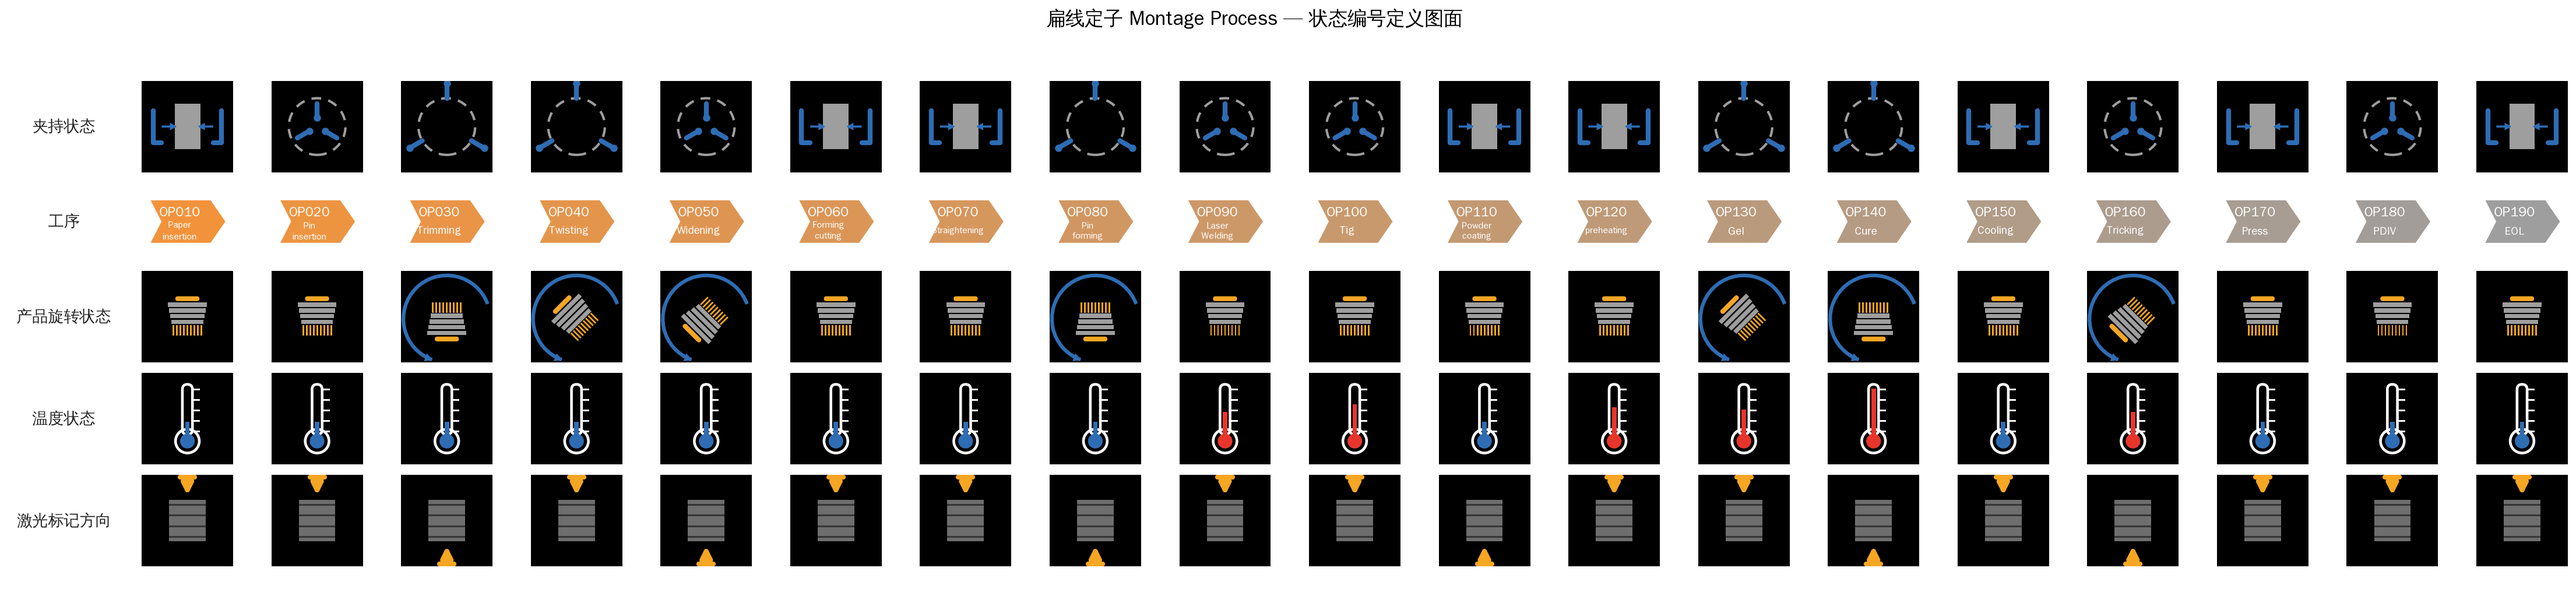
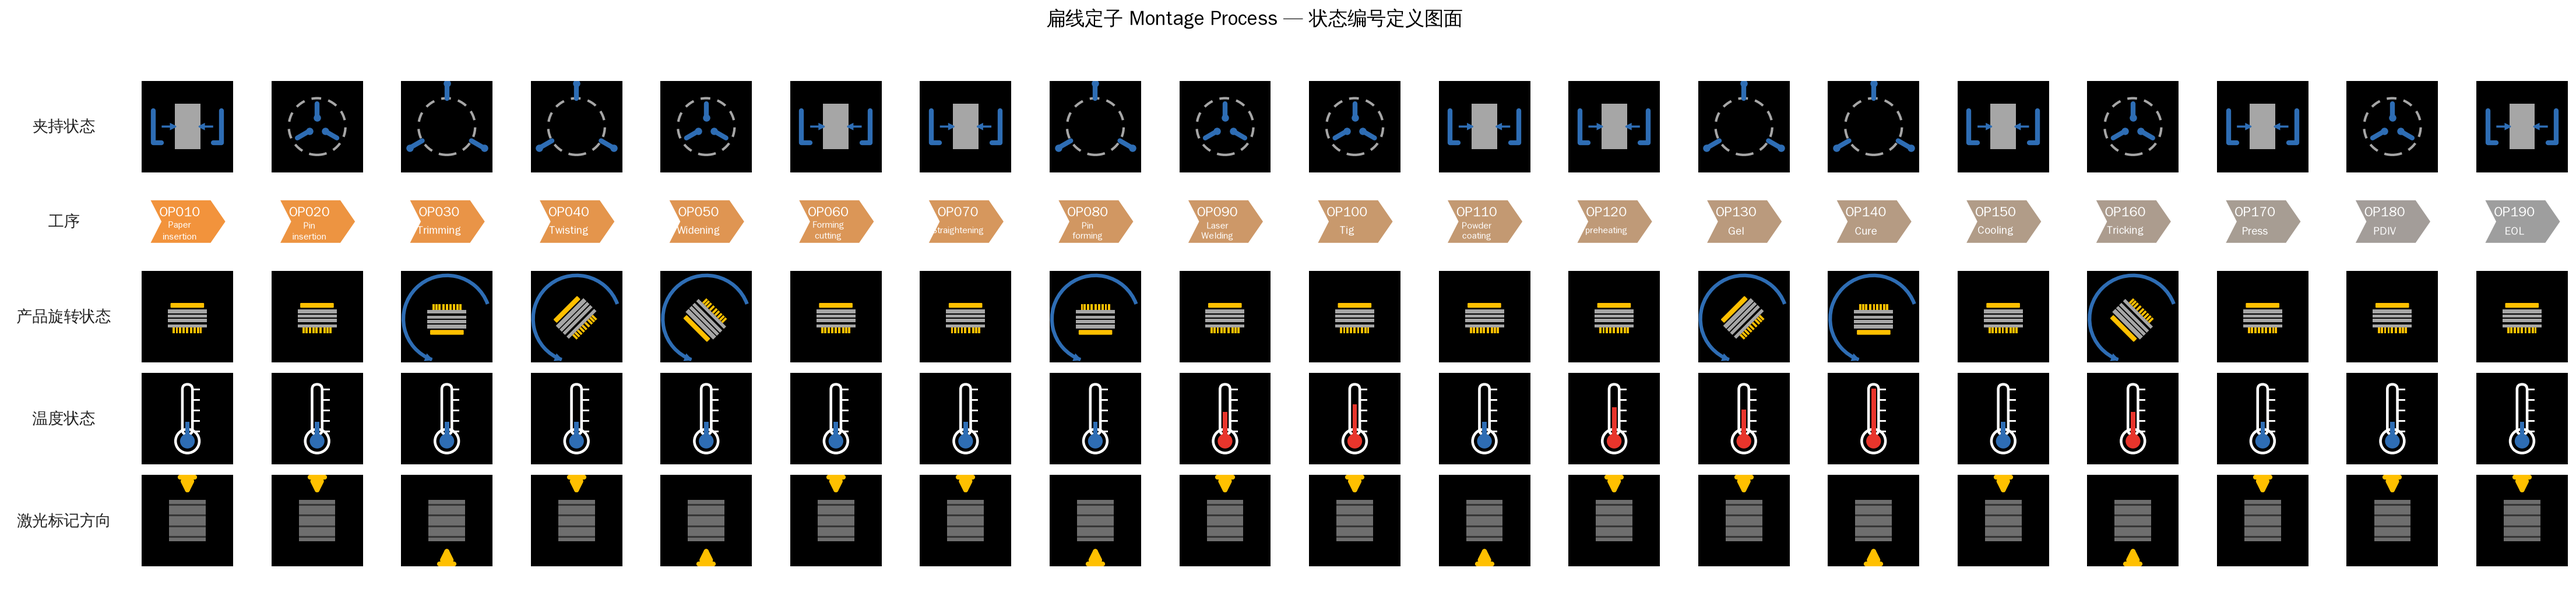
Use the real stator.svg geometry for the stator glyph
Replace the hand-approximated stator icon (both the matplotlib PNG
renderer and the HTML/SVG templates) with a 1:1 port of the actual
stator.svg provided by the user: gold cap, 4 grey laminated bars,
9 gold pin teeth, on the real 178x145 proportions and colors
(#FFC000 / #A6A6A6).

diff --git a/stator_montage_tool/web/index.html b/stator_montage_tool/web/index.html
@@ -5,8 +5,8 @@
 <title>扁线定子 Montage Process 状态编号定义图面</title>
 <style>
   :root {
-    --gold: #F5A623;
-    --grey: #9E9E9E;
+    --gold: #FFC000;
+    --grey: #A6A6A6;
     --grey-dark: #6E6E6E;
     --blue: #2E6DB4;
     --red: #E8352C;
@@ -42,28 +42,29 @@
     </defs>
   </svg>
 
+  <!-- 精确复刻自用户提供的 stator.svg（原始画布 178x145，见 web/README.md） -->
   <template id="tpl-stator">
-    <svg viewBox="0 0 100 100"><g class="stator">
-      <rect x="19" y="8" width="62" height="10" rx="5" fill="var(--gold)"/>
-      <rect x="16" y="20" width="68" height="8" fill="var(--grey)"/>
-      <rect x="18" y="30" width="64" height="8" fill="var(--grey)"/>
-      <rect x="20" y="40" width="60" height="8" fill="var(--grey)"/>
-      <rect x="22" y="50" width="56" height="8" fill="var(--grey)"/>
-      <rect x="14" y="60" width="4.5" height="28" fill="var(--gold)"/>
-      <rect x="23" y="60" width="4.5" height="28" fill="var(--gold)"/>
-      <rect x="32" y="60" width="4.5" height="28" fill="var(--gold)"/>
-      <rect x="41" y="60" width="4.5" height="28" fill="var(--gold)"/>
-      <rect x="50" y="60" width="4.5" height="28" fill="var(--gold)"/>
-      <rect x="59" y="60" width="4.5" height="28" fill="var(--gold)"/>
-      <rect x="68" y="60" width="4.5" height="28" fill="var(--gold)"/>
-      <rect x="77" y="60" width="4.5" height="28" fill="var(--gold)"/>
-      <rect x="86" y="60" width="4.5" height="28" fill="var(--gold)"/>
+    <svg viewBox="0 0 178 145"><g class="stator">
+      <rect x="12" y="0" width="153" height="22" rx="3.7" ry="3.7" fill="var(--gold)"/>
+      <rect x="0" y="28" width="178" height="20" fill="var(--grey)"/>
+      <rect x="0" y="52" width="178" height="15" fill="var(--grey)"/>
+      <rect x="0" y="72" width="178" height="15" fill="var(--grey)"/>
+      <rect x="0" y="97" width="178" height="15" fill="var(--grey)"/>
+      <line x1="27" y1="112" x2="27" y2="139.332" stroke="var(--gold)" stroke-width="10.3125"/>
+      <line x1="41" y1="112" x2="41" y2="139.332" stroke="var(--gold)" stroke-width="10.3125"/>
+      <line x1="56" y1="112" x2="56" y2="139.332" stroke="var(--gold)" stroke-width="10.3125"/>
+      <line x1="72" y1="112" x2="72" y2="139.332" stroke="var(--gold)" stroke-width="10.3125"/>
+      <line x1="87" y1="112" x2="87" y2="139.332" stroke="var(--gold)" stroke-width="10.3125"/>
+      <line x1="105" y1="112" x2="105" y2="139.332" stroke="var(--gold)" stroke-width="10.3125"/>
+      <line x1="123" y1="112" x2="123" y2="139.332" stroke="var(--gold)" stroke-width="10.3125"/>
+      <line x1="137" y1="112" x2="137" y2="139.332" stroke="var(--gold)" stroke-width="10.3125"/>
+      <line x1="150" y1="112" x2="150" y2="139.332" stroke="var(--gold)" stroke-width="10.3125"/>
     </g></svg>
   </template>
 
   <template id="tpl-rotate-arrow">
-    <svg viewBox="0 0 100 100"><g class="rotate-arrow">
-      <path d="M 90.7 26.5 A 47 47 0 1 1 26.5 9.3" fill="none" stroke="var(--blue)" stroke-width="6" marker-end="url(#arrow-blue)"/>
+    <svg viewBox="0 0 178 145"><g class="rotate-arrow">
+      <path d="M 153.95 35 A 75 75 0 1 1 51.5 7.55" fill="none" stroke="var(--blue)" stroke-width="6" marker-end="url(#arrow-blue)"/>
     </g></svg>
   </template>
 
@@ -143,7 +144,7 @@
 <!-- ============ /静态 SVG 图标资源 ============ -->
 
 <script>
[2 lines of base64/hex data omitted]
 </script>
 </body>
 </html>

diff --git a/stator_montage_tool/web/shell.html b/stator_montage_tool/web/shell.html
@@ -5,8 +5,8 @@
 <title>扁线定子 Montage Process 状态编号定义图面</title>
 <style>
   :root {
-    --gold: #F5A623;
-    --grey: #9E9E9E;
+    --gold: #FFC000;
+    --grey: #A6A6A6;
     --grey-dark: #6E6E6E;
     --blue: #2E6DB4;
     --red: #E8352C;
@@ -42,28 +42,29 @@
     </defs>
   </svg>
 
+  <!-- 精确复刻自用户提供的 stator.svg（原始画布 178x145，见 web/README.md） -->
   <template id="tpl-stator">
-    <svg viewBox="0 0 100 100"><g class="stator">
-      <rect x="19" y="8" width="62" height="10" rx="5" fill="var(--gold)"/>
-      <rect x="16" y="20" width="68" height="8" fill="var(--grey)"/>
-      <rect x="18" y="30" width="64" height="8" fill="var(--grey)"/>
-      <rect x="20" y="40" width="60" height="8" fill="var(--grey)"/>
-      <rect x="22" y="50" width="56" height="8" fill="var(--grey)"/>
-      <rect x="14" y="60" width="4.5" height="28" fill="var(--gold)"/>
-      <rect x="23" y="60" width="4.5" height="28" fill="var(--gold)"/>
-      <rect x="32" y="60" width="4.5" height="28" fill="var(--gold)"/>
-      <rect x="41" y="60" width="4.5" height="28" fill="var(--gold)"/>
-      <rect x="50" y="60" width="4.5" height="28" fill="var(--gold)"/>
-      <rect x="59" y="60" width="4.5" height="28" fill="var(--gold)"/>
-      <rect x="68" y="60" width="4.5" height="28" fill="var(--gold)"/>
-      <rect x="77" y="60" width="4.5" height="28" fill="var(--gold)"/>
-      <rect x="86" y="60" width="4.5" height="28" fill="var(--gold)"/>
+    <svg viewBox="0 0 178 145"><g class="stator">
+      <rect x="12" y="0" width="153" height="22" rx="3.7" ry="3.7" fill="var(--gold)"/>
+      <rect x="0" y="28" width="178" height="20" fill="var(--grey)"/>
+      <rect x="0" y="52" width="178" height="15" fill="var(--grey)"/>
+      <rect x="0" y="72" width="178" height="15" fill="var(--grey)"/>
+      <rect x="0" y="97" width="178" height="15" fill="var(--grey)"/>
+      <line x1="27" y1="112" x2="27" y2="139.332" stroke="var(--gold)" stroke-width="10.3125"/>
+      <line x1="41" y1="112" x2="41" y2="139.332" stroke="var(--gold)" stroke-width="10.3125"/>
+      <line x1="56" y1="112" x2="56" y2="139.332" stroke="var(--gold)" stroke-width="10.3125"/>
+      <line x1="72" y1="112" x2="72" y2="139.332" stroke="var(--gold)" stroke-width="10.3125"/>
+      <line x1="87" y1="112" x2="87" y2="139.332" stroke="var(--gold)" stroke-width="10.3125"/>
+      <line x1="105" y1="112" x2="105" y2="139.332" stroke="var(--gold)" stroke-width="10.3125"/>
+      <line x1="123" y1="112" x2="123" y2="139.332" stroke="var(--gold)" stroke-width="10.3125"/>
+      <line x1="137" y1="112" x2="137" y2="139.332" stroke="var(--gold)" stroke-width="10.3125"/>
+      <line x1="150" y1="112" x2="150" y2="139.332" stroke="var(--gold)" stroke-width="10.3125"/>
     </g></svg>
   </template>
 
   <template id="tpl-rotate-arrow">
-    <svg viewBox="0 0 100 100"><g class="rotate-arrow">
-      <path d="M 90.7 26.5 A 47 47 0 1 1 26.5 9.3" fill="none" stroke="var(--blue)" stroke-width="6" marker-end="url(#arrow-blue)"/>
+    <svg viewBox="0 0 178 145"><g class="rotate-arrow">
+      <path d="M 153.95 35 A 75 75 0 1 1 51.5 7.55" fill="none" stroke="var(--blue)" stroke-width="6" marker-end="url(#arrow-blue)"/>
     </g></svg>
   </template>
 

diff --git a/stator_montage_tool/web/app.src.js b/stator_montage_tool/web/app.src.js
@@ -87,7 +87,7 @@
     var cell = newCell();
     var angle = ROTATION_ANGLES[String(code)];
     var svg = cloneSvg("tpl-stator");
-    svg.querySelector(".stator").setAttribute("transform", "rotate(" + angle + " 50 50)");
+    svg.querySelector(".stator").setAttribute("transform", "rotate(" + angle + " 89 72.5)");
     cell.appendChild(svg);
     if (angle !== 0) {
       cell.appendChild(cloneSvg("tpl-rotate-arrow"));

diff --git a/stator_montage_tool/icons.py b/stator_montage_tool/icons.py
@@ -8,9 +8,9 @@ import matplotlib.path as mpath
 import matplotlib.transforms as mtransforms
 from matplotlib.patches import FancyArrowPatch, Circle, Rectangle, FancyBboxPatch
 
-GOLD = "#F5A623"
+GOLD = "#FFC000"
 GOLD_DARK = "#C97F0E"
-GREY = "#9E9E9E"
+GREY = "#A6A6A6"
 GREY_DARK = "#6E6E6E"
 BLUE = "#2E6DB4"
 RED = "#E8352C"
@@ -30,48 +30,60 @@ def _cell(ax, bg=BLACK):
 
 
 # ---------------------------------------------------------------------------
-# Stator glyph: gold cap + grey laminated stack + gold pin teeth
+# Stator glyph: gold cap + grey laminated stack + gold pin teeth.
+# Geometry ported 1:1 from the reference stator.svg (original canvas 178x145,
+# cap x=12..165 y=0..22, 4 grey bars, 9 gold pin teeth y=112..139.332).
 # ---------------------------------------------------------------------------
 
-def _stator_glyph_patches(cx=0.0, cy=0.0, w=0.9, h=1.2):
+_REAL_CX, _REAL_CY = 89.0, 72.5
+_REAL_CAP = dict(x=12, y=0, w=153, h=22, rx=3.7)
+_REAL_BARS = [
+    dict(x=0, y=28, w=178, h=20),
+    dict(x=0, y=52, w=178, h=15),
+    dict(x=0, y=72, w=178, h=15),
+    dict(x=0, y=97, w=178, h=15),
+]
+_REAL_TEETH_X = [27, 41, 56, 72, 87, 105, 123, 137, 150]
+_REAL_TEETH_Y0, _REAL_TEETH_Y1, _REAL_TEETH_W = 112, 139.332, 10.3125
+
+
+def _rect_world(real_x, real_y, real_w, real_h, scale, cx, cy):
+    """Convert a real-SVG rect (y-down, anchored top-left) into a matplotlib
+    Rectangle spec (y-up, anchored bottom-left) around glyph center (cx, cy)."""
+    x0 = (real_x - _REAL_CX) * scale + cx
+    y0 = (_REAL_CY - (real_y + real_h)) * scale + cy
+    return x0, y0, real_w * scale, real_h * scale
+
+
+def _stator_glyph_patches(cx=0.0, cy=0.0, scale=0.0048):
     """Return list of (patch_kind, kwargs) describing the stator glyph
     centered at (cx, cy), before rotation."""
     patches = []
-    cap_w, cap_h = w * 0.62, h * 0.10
-    cap_y = cy + h * 0.42
+    x0, y0, w, h = _rect_world(_REAL_CAP["x"], _REAL_CAP["y"], _REAL_CAP["w"],
+                                 _REAL_CAP["h"], scale, cx, cy)
     patches.append(("fancybbox", dict(
-        xy=(cx - cap_w / 2, cap_y - cap_h / 2), width=cap_w, height=cap_h,
-        boxstyle="round,pad=0,rounding_size=" + str(cap_h * 0.5),
+        xy=(x0, y0), width=w, height=h,
+        boxstyle="round,pad=0,rounding_size=" + str(_REAL_CAP["rx"] * scale),
         facecolor=GOLD, edgecolor="none")))
 
-    n_bars = 4
-    bar_h = h * 0.09
-    gap = h * 0.03
-    top_y = cap_y - cap_h / 2 - gap
-    for i in range(n_bars):
-        bw = w * (1.0 - 0.06 * i)
-        by = top_y - i * (bar_h + gap) - bar_h / 2
-        patches.append(("rect", dict(
-            xy=(cx - bw / 2, by - bar_h / 2), width=bw, height=bar_h,
-            facecolor=GREY, edgecolor="none")))
-    stack_bottom = top_y - (n_bars - 1) * (bar_h + gap) - bar_h - gap / 2
+    for bar in _REAL_BARS:
+        x0, y0, w, h = _rect_world(bar["x"], bar["y"], bar["w"], bar["h"], scale, cx, cy)
+        patches.append(("rect", dict(xy=(x0, y0), width=w, height=h,
+                                       facecolor=GREY, edgecolor="none")))
 
-    n_teeth = 9
-    tooth_h = h * 0.22
-    tooth_w = w * 0.7 / n_teeth * 0.55
-    span = w * 0.72
-    xs = np.linspace(cx - span / 2, cx + span / 2, n_teeth)
-    for x in xs:
-        patches.append(("rect", dict(
-            xy=(x - tooth_w / 2, stack_bottom - tooth_h), width=tooth_w, height=tooth_h,
-            facecolor=GOLD, edgecolor="none")))
+    tooth_h = _REAL_TEETH_Y1 - _REAL_TEETH_Y0
+    for tx in _REAL_TEETH_X:
+        x0, y0, w, h = _rect_world(tx - _REAL_TEETH_W / 2, _REAL_TEETH_Y0,
+                                     _REAL_TEETH_W, tooth_h, scale, cx, cy)
+        patches.append(("rect", dict(xy=(x0, y0), width=w, height=h,
+                                       facecolor=GOLD, edgecolor="none")))
     return patches
 
 
-def draw_stator_glyph(ax, cx=0.0, cy=0.0, w=0.9, h=1.2, angle=0, alpha=1.0):
+def draw_stator_glyph(ax, cx=0.0, cy=0.0, scale=0.0048, angle=0, alpha=1.0):
     """Draw the stator glyph rotated by `angle` degrees about (cx, cy)."""
     t = mtransforms.Affine2D().rotate_deg_around(cx, cy, angle) + ax.transData
-    for kind, kw in _stator_glyph_patches(cx, cy, w, h):
+    for kind, kw in _stator_glyph_patches(cx, cy, scale):
         kw = dict(kw)
         kw["alpha"] = alpha
         if kind == "rect":
@@ -99,7 +111,7 @@ def _rotation_arrow(ax, cx, cy, r, theta1, theta2, color=BLUE):
 def draw_rotation_icon(ax, code, angle_map):
     _cell(ax)
     angle = angle_map[code]
-    draw_stator_glyph(ax, 0, -0.05, w=0.85, h=1.05, angle=angle)
+    draw_stator_glyph(ax, 0, -0.05, angle=angle)
     if code != 0:
         _rotation_arrow(ax, 0, -0.05, 0.95, 20, 250, color=BLUE)
     ax.text(0, -1.18, f"R = {code}  ({angle}°)", color=WHITE, ha="center", va="top",
